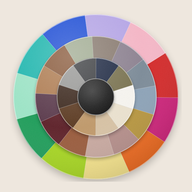
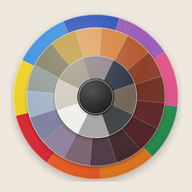
Палитра по книге

diff --git a/index.html b/index.html
@@ -113,13 +113,13 @@ footer{margin-top:28px;color:var(--mute);font-size:15px;text-align:center}
 <script>
 const RINGS = {
  1:{name:"Чёрный", mood:"сильный, резкий, графичный",
-    colors:[["Чёрный","#141414"]]},
+    colors:[["Чёрный","#1A1D1D"]]},
  2:{name:"Классические нейтрали", mood:"предсказуемо, чётко, надёжно",
-    colors:[["Белый","#F8F6F1"],["Экрю","#ECE3D0"],["Беж","#D8C3A5"],["Тан","#C19A6B"],["Коричневый","#5C3A21"],["Шоколад","#3B271C"],["Серый","#9A9A98"],["Графит","#3D3F42"],["Нэви","#1F2A44"],["Хаки","#7A7350"]]},
+    colors:[["Серо-коричневый","#6E6253"],["Графит","#3B3F42"],["Светло-серый","#A9A6A8"],["Белый","#F4F2EE"],["Стоун","#D3CBBF"],["Грейдж","#A39886"],["Серо-лиловый","#8F8285"],["Нэви","#26303F"]]},
  3:{name:"Цвета «без названия»", mood:"спокойно, тонко, «клей гардероба»",
-    colors:[["Карамель","#B07D52"],["Пекан","#8A5A3B"],["Шалфей","#A3AE94"],["Тауп","#8B7D72"],["Лилово-серый","#8E8392"],["Сине-серый","#7D8C99"],["Выцветший деним","#8DA3B8"],["Горчичный","#B8963E"],["Пыльная роза","#B58E8A"],["Лотос","#C9A9A0"],["Ржавый","#9A5B3C"],["Бордо","#5E2129"],["Слива","#5B3A4C"]]},
- 4:{name:"Яркие и пастели", mood:"радостно, энергично, заметно",
-    colors:[["Красный","#D62828"],["Фуксия","#D0217A"],["Оранжевый","#F06A1E"],["Бэби-жёлтый","#F7E58C"],["Лайм","#A8D820"],["Зелёный","#1E9E5A"],["Мятный","#9EE6C8"],["Бирюза","#1FB8B0"],["Кобальт","#1F4FD8"],["Лаванда","#B7A7E8"],["Пастельно-розовый","#F7B8C8"]]}
+    colors:[["Серый шалфей","#8F9A92"],["Олива","#7C7A5A"],["Горчица","#C29A3A"],["Абрикос","#E3A35E"],["Тыквенный","#D6843A"],["Ржавый","#B5562A"],["Кирпич","#8F3A22"],["Каштан","#6E2A1C"],["Оксблад","#5C1D1F"],["Бордо","#4A1820"],["Тёмная слива","#3D1F26"],["Баклажан","#4A3340"],["Пыльная слива","#7A5F6E"],["Пыльный лиловый","#8E7F9A"],["Лавандово-серый","#7D7F9F"],["Пыльный голубой","#9FB4C7"]]},
+ 4:{name:"Яркие", mood:"радостно, энергично, заметно",
+    colors:[["Розовый","#E8508A"],["Зелёный","#1F8F4A"],["Оранжевый","#F07A1A"],["Мандариновый","#F0581C"],["Красный","#D9202A"],["Жёлтый","#F2D21B"],["Голубой","#2F8BE0"],["Кобальт","#2B4FB8"],["Фиолетовый","#9A5AB8"]]}
 };
 const COMBO = {
  "1":["Монохром в чёрном","строго и графично","Чтобы не было плоско — добавьте фактуру или одну вещь из кольца 3."],
@@ -127,9 +127,9 @@ const COMBO = {
  "3":["Всё в кольце 3","очень расслабленно, мягко","Чтобы «поднять» образ — добавьте яркий белый или одну вещь кольца 4."],
  "4":["Всё яркое","максимум энергии — «тонна» цвета","Если слишком — замените одну вещь на кольцо 3."],
  "1-2":["Собранно","чётко, лаконично, уверенно","Классика, которая всегда работает. Для мягкости — аксессуар кольца 3."],
- "1-3":["Утончённо","нюансно, «умнее», чем просто чёрное","Например, всё чёрное + пальто горчичного или карамельного цвета."],
+ "1-3":["Утончённо","нюансно, «умнее», чем просто чёрное","Например, всё чёрное + пальто цвета горчицы или абрикоса."],
  "1-4":["Смело","яркий контраст, весело, иногда резко","Яркой вещи нужна структура: чёткий крой, а не простая футболка."],
- "2-3":["Шик и ум","спокойная изысканность","Нэви + лилово-серый, серый + шалфей — тихая роскошь."],
+ "2-3":["Шик и ум","спокойная изысканность","Нэви + серо-лиловый, графит + серый шалфей — тихая роскошь."],
  "2-4":["Классика погромче","чётко и заметно, не для спокойного дня","Если нужно спокойнее — замените яркое на его «приглушённую» версию из кольца 3."],
  "3-4":["Мягкий акцент","яркое смягчено, появляется глубина","Например, красное платье + обувь цвета бордо."]
 };
@@ -184,7 +184,7 @@ function drawWheel(){
  const svg=document.getElementById('svgwheel');
  // Стопка матовых дисков, как у физического круга: снизу самый большой (кольцо 4), сверху меньше, в центре чёрная «шляпка».
  // У каждого диска своя неподвижная тень (видно, что слои лежат друг на друге) и свой поворот.
- const R_OUT={1:34,2:72,3:112,4:152};
+ const R_OUT={1:32,2:76,3:128,4:152};
  const p=(rad,a)=>[rad*Math.cos(a),rad*Math.sin(a)];
  const wedge=(r0,r1,a0,a1)=>{const [x0,y0]=p(r1,a0),[x1,y1]=p(r1,a1),[x2,y2]=p(r0,a1),[x3,y3]=p(r0,a0);
    return `M${x0},${y0}A${r1},${r1} 0 0 1 ${x1},${y1}L${x2},${y2}A${r0},${r0} 0 0 0 ${x3},${y3}Z`};
@@ -225,7 +225,7 @@ function initSpin(svg){
  let drag=null,last=null,lastT=0,moved=0,startEl=null,idle=true,idleTimer=null;
  const center=()=>{const r=svg.getBoundingClientRect();return [r.left+r.width/2,r.top+r.height/2,r.width/320]};
  const angleAt=e=>{const [cx,cy]=center();return Math.atan2(e.clientY-cy,e.clientX-cx)*180/Math.PI};
- const ringAt=e=>{const [cx,cy,k]=center();const d=Math.hypot(e.clientX-cx,e.clientY-cy)/k;return d<35?1:d<73.5?2:d<113.5?3:4};
+ const ringAt=e=>{const [cx,cy,k]=center();const d=Math.hypot(e.clientX-cx,e.clientY-cy)/k;return d<33?1:d<77?2:d<129?3:4};
  const apply=o=>o.g.setAttribute('transform',`rotate(${o.ang})`);
  function frame(){
   for(const k in R){const o=R[k];if(drag===o)continue;

diff --git a/sw.js b/sw.js
@@ -1,6 +1,6 @@
 // Offline support. Pages: network first, so updates show up immediately; cache is the fallback offline.
 // Images/fonts: cache first.
-const CACHE = "color-wheel-v12";
+const CACHE = "color-wheel-v13";
 const FILES = ["./", "./index.html", "./manifest.webmanifest", "./icon-192.png", "./icon-512.png", "./apple-touch-icon.png"];
 self.addEventListener("install", e => e.waitUntil(caches.open(CACHE).then(c => c.addAll(FILES)).then(() => self.skipWaiting())));
 self.addEventListener("activate", e => e.waitUntil(
